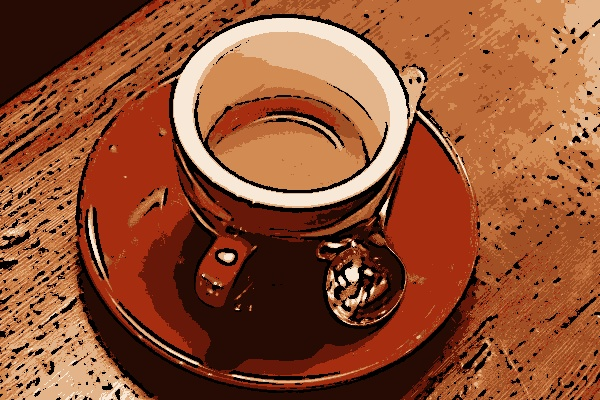
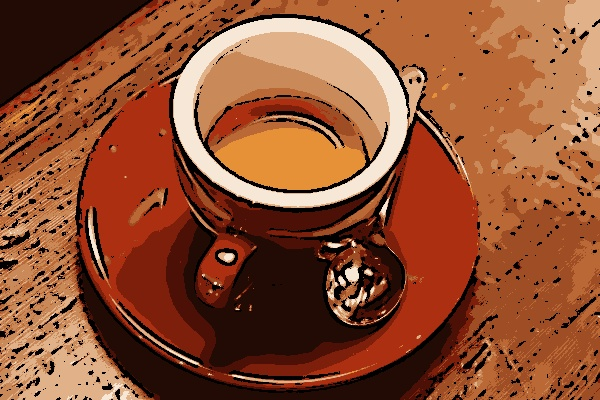
Make hdr a detail-enhancement style, pre-smooth comic posterization, and strengthen sketch contrast

diff --git a/docs/app.js b/docs/app.js
@@ -129,26 +129,19 @@ function sketchCartoon(src) {
   cv.bitwise_not(gray, inverted);
 
   const blurred = new cv.Mat();
-  cv.GaussianBlur(inverted, blurred, new cv.Size(25, 25), 0);
+  cv.GaussianBlur(inverted, blurred, new cv.Size(21, 21), 0);
 
   const divisor = new cv.Mat();
   cv.bitwise_not(blurred, divisor);
 
   const sketch = new cv.Mat();
   cv.divide(gray, divisor, sketch, 256, -1);
-
-  const gamma = new cv.Mat(1, 256, cv.CV_8U);
-  for (let i = 0; i < 256; i++) {
-    gamma.data[i] = Math.round(255 * Math.pow(i / 255, 1.6));
-  }
-  const contrasted = new cv.Mat();
-  cv.LUT(sketch, gamma, contrasted);
+  cv.normalize(sketch, sketch, 0, 255, cv.NORM_MINMAX);
 
   const result = new cv.Mat();
-  cv.cvtColor(contrasted, result, cv.COLOR_GRAY2RGBA);
+  cv.cvtColor(sketch, result, cv.COLOR_GRAY2RGBA);
 
-  gray.delete(); inverted.delete(); blurred.delete(); divisor.delete();
-  sketch.delete(); gamma.delete(); contrasted.delete();
+  gray.delete(); inverted.delete(); blurred.delete(); divisor.delete(); sketch.delete();
   return result;
 }
 
@@ -199,7 +192,9 @@ function comicCartoon(src) {
   );
 
   const rgb = toRGB(src);
-  const flat = posterize(rgb, 8);
+  const preSmooth = bilateralN(rgb, 1, 60, 60);
+  const flat = posterize(preSmooth, 10);
+  preSmooth.delete();
 
   const cartoonRGB = new cv.Mat();
   cv.bitwise_and(flat, flat, cartoonRGB, edges);
@@ -214,17 +209,29 @@ function comicCartoon(src) {
 
 function hdrCartoon(src) {
   const rgb = toRGB(src);
-  const small = new cv.Mat();
-  cv.pyrDown(rgb, small);
-  const flat = bilateralN(small, 4, 60, 60);
-  const up = new cv.Mat();
-  cv.pyrUp(flat, up);
+  let smooth = new cv.Mat();
+  cv.bilateralFilter(rgb, smooth, 9, 60, 60);
+  const smooth2 = new cv.Mat();
+  cv.bilateralFilter(smooth, smooth2, 9, 60, 60);
+  smooth.delete();
+
+  const boosted = new cv.Mat();
+  cv.addWeighted(rgb, 1.6, smooth2, -0.6, 0, boosted);
+
+  const hsv = new cv.Mat();
+  cv.cvtColor(boosted, hsv, cv.COLOR_RGB2HSV);
+  const n = hsv.rows * hsv.cols;
+  for (let i = 0; i < n; i++) {
+    const idx = i * 3 + 1;
+    const s = hsv.data[idx] * 1.35;
+    hsv.data[idx] = s > 255 ? 255 : s;
+  }
+  const vivid = new cv.Mat();
+  cv.cvtColor(hsv, vivid, cv.COLOR_HSV2RGB);
+
   const out = new cv.Mat();
-  cv.cvtColor(up, out, cv.COLOR_RGB2RGBA);
-  rgb.delete();
-  small.delete();
-  flat.delete();
-  up.delete();
+  cv.cvtColor(vivid, out, cv.COLOR_RGB2RGBA);
+  rgb.delete(); smooth2.delete(); boosted.delete(); hsv.delete(); vivid.delete();
   return out;
 }
 

diff --git a/cartoonify/pipeline.py b/cartoonify/pipeline.py
@@ -3,9 +3,9 @@
 Four styles are available:
 
 - ``classic``: the classic OpenCV cartoon effect (edge mask over flattened colors)
-- ``sketch``: pencil-sketch look using gray-dodge
+- ``sketch``: pencil-sketch look using gray-dodge with contrast boost
 - ``comic``: posterized colors with strong outlines
-- ``hdr``: painted look from repeated bilateral filtering
+- ``hdr``: detail-enhanced, vivid photo look
 """
 
 from dataclasses import dataclass
@@ -23,64 +23,6 @@ class CartoonifyStages:
     edges: np.ndarray | None
     flattened: np.ndarray | None
     cartoon: np.ndarray
-
-
-def pencil_sketch(image: np.ndarray) -> np.ndarray:
-    """Create a pencil-sketch look with the gray-dodge technique."""
-    grayscale = to_grayscale(image)
-    inverted = 255 - grayscale
-    blurred = cv2.GaussianBlur(inverted, (25, 25), 0)
-    sketch = cv2.divide(grayscale, 255 - blurred, scale=256)
-    gamma = np.uint8([255 * (i / 255) ** 1.6 for i in range(256)])
-    sketch = cv2.LUT(sketch, gamma)
-    return cv2.cvtColor(sketch, cv2.COLOR_GRAY2RGB)
-
-
-def flatten_colors(
-    image: np.ndarray,
-    diameter: int = 9,
-    sigma_color: int = 250,
-    sigma_space: int = 250,
-    iterations: int = 2,
-) -> np.ndarray:
-    """Smooth flat regions while keeping edges sharp with a bilateral filter."""
-    result = image
-    for _ in range(iterations):
-        result = cv2.bilateralFilter(
-            result, diameter, sigma_color, sigma_space
-        )
-    return result
-
-
-def posterize(image: np.ndarray, k: int = 8) -> np.ndarray:
-    """Reduce the image to ``k`` dominant colors with k-means."""
-    pixels = np.float32(image).reshape(-1, 3)
-    criteria = (cv2.TERM_CRITERIA_EPS + cv2.TERM_CRITERIA_MAX_ITER, 10, 1.0)
-    _, labels, centers = cv2.kmeans(
-        pixels, k, None, criteria, 3, cv2.KMEANS_PP_CENTERS
-    )
-    palette = np.uint8(centers)
-    return palette[labels.flatten()].reshape(image.shape)
-
-
-def painted(image: np.ndarray, iterations: int = 4) -> np.ndarray:
-    """Create a painted look: downscale, flatten with bilateral filtering, upscale."""
-    small = cv2.pyrDown(image)
-    result = small
-    for _ in range(iterations):
-        result = cv2.bilateralFilter(result, 9, 60, 60)
-    return cv2.pyrUp(result)
-
-
-def posterize(image: np.ndarray, k: int = 8) -> np.ndarray:
-    """Reduce the image to ``k`` dominant colors with k-means."""
-    pixels = np.float32(image).reshape(-1, 3)
-    criteria = (cv2.TERM_CRITERIA_EPS + cv2.TERM_CRITERIA_MAX_ITER, 10, 1.0)
-    _, labels, centers = cv2.kmeans(
-        pixels, k, None, criteria, 3, cv2.KMEANS_PP_CENTERS
-    )
-    centers = np.uint8(centers)
-    return centers[labels.flatten()].reshape(image.shape)
 
 
 def read_image(path: str) -> np.ndarray:
@@ -106,6 +48,55 @@ def detect_edges(grayscale: np.ndarray, block_size: int = 9, c: int = 9) -> np.n
         block_size,
         c,
     )
+
+
+def pencil_sketch(image: np.ndarray) -> np.ndarray:
+    """Create a pencil-sketch look with the gray-dodge technique."""
+    grayscale = to_grayscale(image)
+    inverted = 255 - grayscale
+    blurred = cv2.GaussianBlur(inverted, (21, 21), 0)
+    sketch = cv2.divide(grayscale, 255 - blurred, scale=256)
+    sketch = cv2.normalize(sketch, None, 0, 255, cv2.NORM_MINMAX)
+    return cv2.cvtColor(sketch, cv2.COLOR_GRAY2RGB)
+
+
+def flatten_colors(
+    image: np.ndarray,
+    diameter: int = 9,
+    sigma_color: int = 250,
+    sigma_space: int = 250,
+    iterations: int = 2,
+) -> np.ndarray:
+    """Smooth flat regions while keeping edges sharp with a bilateral filter."""
+    result = image
+    for _ in range(iterations):
+        result = cv2.bilateralFilter(
+            result, diameter, sigma_color, sigma_space
+        )
+    return result
+
+
+def posterize(image: np.ndarray, k: int = 10) -> np.ndarray:
+    """Reduce the image to ``k`` dominant colors with k-means."""
+    pixels = np.float32(image).reshape(-1, 3)
+    criteria = (cv2.TERM_CRITERIA_EPS + cv2.TERM_CRITERIA_MAX_ITER, 10, 1.0)
+    _, labels, centers = cv2.kmeans(
+        pixels, k, None, criteria, 3, cv2.KMEANS_PP_CENTERS
+    )
+    palette = np.uint8(centers)
+    return palette[labels.flatten()].reshape(image.shape)
+
+
+def detail_enhance(
+    image: np.ndarray, detail: float = 0.6, saturation: float = 1.35
+) -> np.ndarray:
+    """Enhance local detail and color vividness for an HDR-photo look."""
+    smooth = cv2.bilateralFilter(image, 9, 60, 60)
+    smooth = cv2.bilateralFilter(smooth, 9, 60, 60)
+    boosted = cv2.addWeighted(image, 1.0 + detail, smooth, -detail, 0)
+    hsv = cv2.cvtColor(boosted, cv2.COLOR_RGB2HSV).astype(np.float32)
+    hsv[..., 1] = np.clip(hsv[..., 1] * saturation, 0, 255)
+    return cv2.cvtColor(hsv.astype(np.uint8), cv2.COLOR_HSV2RGB)
 
 
 def combine(flattened: np.ndarray, edges: np.ndarray) -> np.ndarray:
@@ -138,7 +129,7 @@ def cartoonify(
         )
 
     if style == "hdr":
-        result = painted(image)
+        result = detail_enhance(image)
         return CartoonifyStages(
             original=image,
             grayscale=grayscale,
@@ -152,7 +143,8 @@ def cartoonify(
     edges = detect_edges(smooth_grayscale, block_size=block_size, c=edge_c)
 
     if style == "comic":
-        flattened = posterize(image, k=8)
+        smoothed = cv2.bilateralFilter(image, 9, 60, 60)
+        flattened = posterize(smoothed, k=10)
     elif style == "classic":
         flattened = flatten_colors(
             image, diameter=diameter, sigma_color=sigma_color, sigma_space=sigma_space

diff --git a/tests/test_pipeline.py b/tests/test_pipeline.py
@@ -51,7 +51,7 @@ class TestPipeline:
     def test_comic_posterizes_colors(self, sample_image):
         stages = cartoonify(read_image(sample_image), style="comic")
 
-        assert len(np.unique(stages.flattened.reshape(-1, 3), axis=0)) <= 8
+        assert len(np.unique(stages.flattened.reshape(-1, 3), axis=0)) <= 10
 
     def test_edges_are_binary(self, sample_image):
         stages = cartoonify(read_image(sample_image), style="classic")

diff --git a/README.md b/README.md
@@ -23,7 +23,7 @@ Input photo (`examples/input.jpg`) rendered in the four available styles:
 | --- | --- |
 | ![Classic cartoon](examples/coffee_classic.jpg) | ![Pencil sketch](examples/coffee_sketch.jpg) |
 | **Comic** | **HDR** |
-| ![Comic cartoon](examples/coffee_comic.jpg) | ![HDR paint](examples/coffee_hdr.jpg) |
+| ![Comic cartoon](examples/coffee_comic.jpg) | ![HDR detail-enhanced](examples/coffee_hdr.jpg) |
 
 ## Styles
 
@@ -32,7 +32,7 @@ Input photo (`examples/input.jpg`) rendered in the four available styles:
 | `classic` | Edge mask over bilateral-filtered colors — the classic OpenCV cartoon effect |
 | `sketch` | Pencil-sketch look using the gray-dodge technique |
 | `comic` | Posterized colors (k-means) with strong outlines |
-| `hdr` | Painted look from repeated bilateral filtering |
+| `hdr` | Detail-enhanced photo look — sharper detail and more vivid colors |
 
 The classic pipeline:
 
